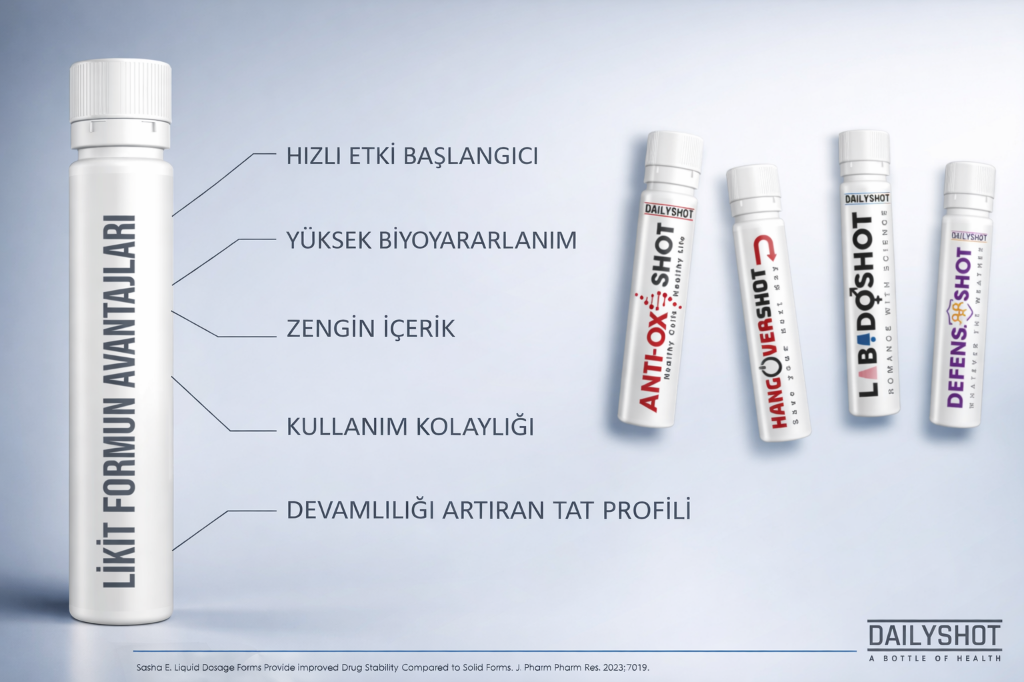
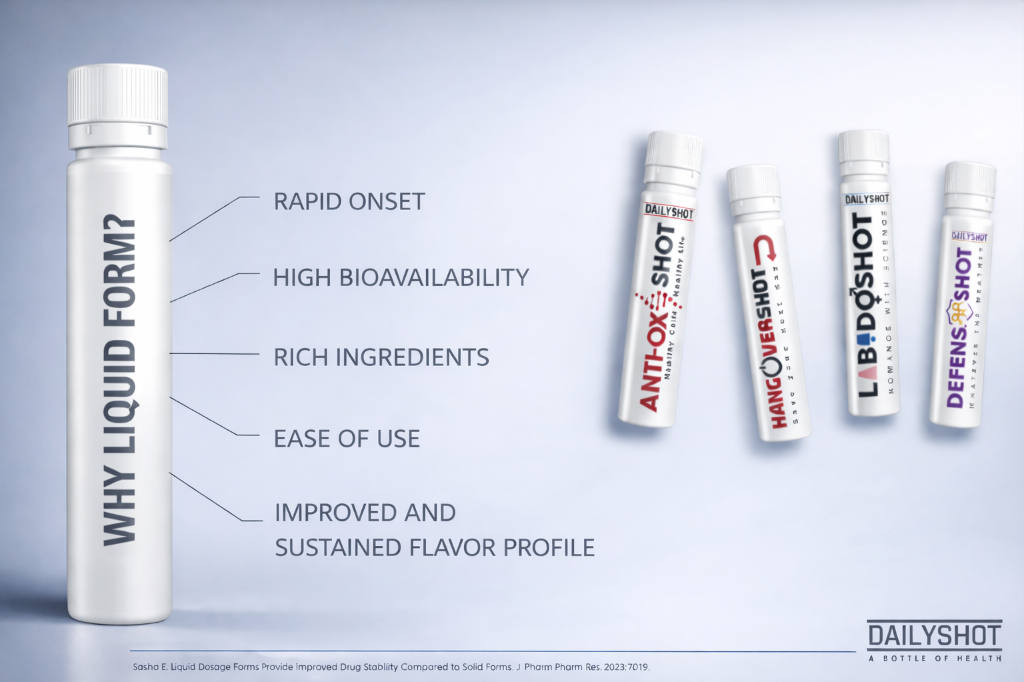
feat(ui): Refine Liquid Advantages section layout and assets
- Replace i18n images with high-res vertical infographic versions
- Remove fixed aspect ratio and gradient overlays from HealthHome.tsx to ensure tight image wrapping

diff --git a/src/components/shared/AnimatedCounter.tsx b/src/components/shared/AnimatedCounter.tsx
@@ -1,4 +1,4 @@
-import { useEffect, useRef, useState } from 'react';
+import { useEffect, useRef, useState, useCallback } from 'react';
 
 interface AnimatedCounterProps {
     end: number;
@@ -19,27 +19,7 @@ const AnimatedCounter = ({
     const [hasAnimated, setHasAnimated] = useState(false);
     const counterRef = useRef<HTMLSpanElement>(null);
 
-    useEffect(() => {
-        const observer = new IntersectionObserver(
-            (entries) => {
-                entries.forEach((entry) => {
-                    if (entry.isIntersecting && !hasAnimated) {
-                        setHasAnimated(true);
-                        animateCount();
-                    }
-                });
-            },
-            { threshold: 0.3 }
-        );
-
-        if (counterRef.current) {
-            observer.observe(counterRef.current);
-        }
-
-        return () => observer.disconnect();
-    }, [hasAnimated]);
-
-    const animateCount = () => {
+    const animateCount = useCallback(() => {
         const startTime = Date.now();
         const startValue = 0;
 
@@ -61,7 +41,27 @@ const AnimatedCounter = ({
         };
 
         requestAnimationFrame(updateCount);
-    };
+    }, [end, duration]);
+
+    useEffect(() => {
+        const observer = new IntersectionObserver(
+            (entries) => {
+                entries.forEach((entry) => {
+                    if (entry.isIntersecting && !hasAnimated) {
+                        setHasAnimated(true);
+                        animateCount();
+                    }
+                });
+            },
+            { threshold: 0.3 }
+        );
+
+        if (counterRef.current) {
+            observer.observe(counterRef.current);
+        }
+
+        return () => observer.disconnect();
+    }, [hasAnimated, animateCount]);
 
     return (
         <span ref={counterRef} className={className}>

diff --git a/src/pages/HealthHome.tsx b/src/pages/HealthHome.tsx
@@ -424,18 +424,14 @@ const HealthHome = () => {
             </div>
 
             {/* Right Image Card */}
-            <div className="relative h-full w-full min-h-[400px] lg:min-h-[600px] flex items-center justify-center">
-              <div className="relative w-full h-full overflow-hidden rounded-3xl shadow-2xl shadow-black/50 aspect-[4/5] lg:aspect-square group">
-                <div className="absolute inset-0 bg-gradient-to-t from-black/60 via-transparent to-transparent z-10"></div>
+            <div className="relative h-full w-full flex items-center justify-center">
+              <div className="relative w-full h-auto overflow-hidden rounded-3xl shadow-2xl shadow-black/50 group">
                 <img
                   src={liquidAdvantagesImage}
                   alt="Liquid Form Advantages"
-                  className="object-contain w-full h-full transform transition-transform duration-700 group-hover:scale-105"
+                  className="w-full h-auto object-cover transform transition-transform duration-700 group-hover:scale-105"
                 />
-                {/* Badge REMOVED as per request */}
               </div>
-              {/* Visual Border Element behind */}
-              <div className="absolute -z-10 -bottom-6 -right-6 w-full h-full border-2 border-white/10 rounded-3xl"></div>
             </div>
 
           </div>

diff --git a/tailwind.config.ts b/tailwind.config.ts
@@ -1,5 +1,7 @@
 import type { Config } from "tailwindcss";
 
+import tailwindcssAnimate from "tailwindcss-animate";
+
 export default {
   darkMode: ["class", '[data-brand="mice"]'],
   content: ["./pages/**/*.{ts,tsx}", "./components/**/*.{ts,tsx}", "./app/**/*.{ts,tsx}", "./src/**/*.{ts,tsx}"],
@@ -122,5 +124,5 @@ export default {
       },
     },
   },
-  plugins: [require("tailwindcss-animate")],
+  plugins: [tailwindcssAnimate],
 } satisfies Config;
